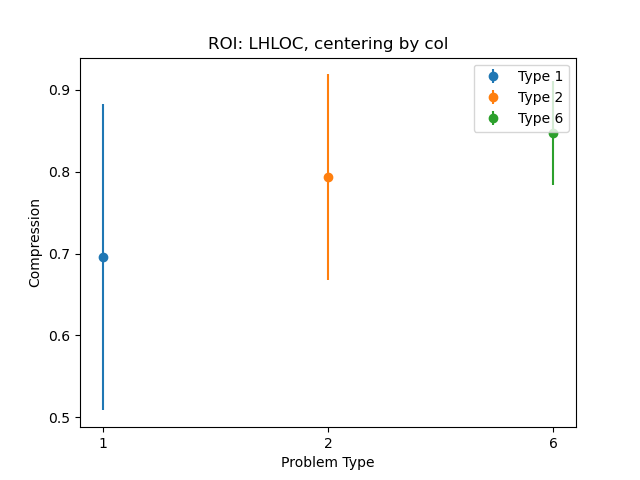
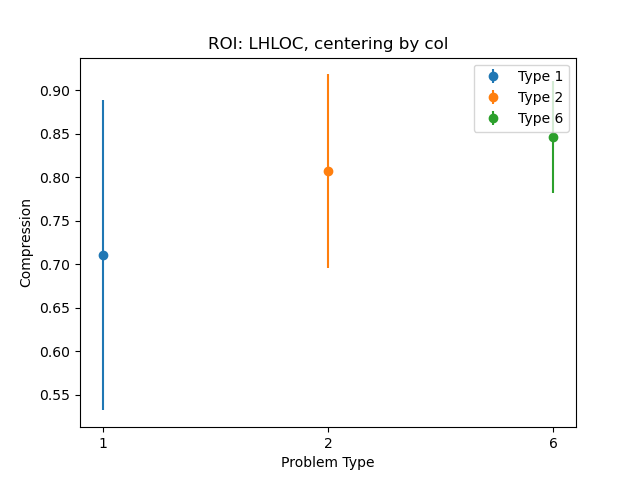
rerun by exc sub09; confirm LOC results

diff --git a/pca_3runs.py b/pca_3runs.py
@@ -12,11 +12,15 @@ from roi_rsa import merge_n_smooth_mask, transform_mask_MNI_to_T1, applyMask
 
 """Reproducing key results from Ahlheim et al., 2018
     - LOC shows task-specific functional dimensionality
-We do not see expected results using Mack et al., 2020 routine.
-One difference in implementation is that Ahlheim 2018 averaged 
-the last 3 runs and then did cv-PCA.
-Here, (before doing cv-PCA), we make minimum changes to Mack 2020
-implementation to simply perform PCA on the average over last 3 runs.
+    
+Some key differences to the original implementation:
+1. There is no cv-PCA at the moment. Instead, we average 
+    the last 3 runs matrices and selecting dimensions based 
+    on 90% variance explained.
+2. Ahlheim 2018 uses GLM from Mack 2016 (run-level), but here 
+    our run-level GLM does not include impulse.
+3. Ahlheim 2018 does PCA centering by row (voxel) but Mack 2020
+    does PCA centering by column. Here we try both.
 """
 
 def neural_compression(k, n):
@@ -210,23 +214,25 @@ def execute(roi, subs, tasks, num_processes, centering_by):
 
 if __name__ == '__main__':    
     root_path = '/home/ken/projects/brain_data'
-    glm_path = 'glm'
-    roi = 'vmPFC_sph10'
+    glm_path = 'glm_run-estimate'
+    roi = 'RHLOC'
     num_subs = 23
     num_types = 3
     dataType = 'beta'
     num_conditions = 16
-    subs = [f'{i:02d}' for i in range(2, num_subs+2)]
+    subs = [f'{i:02d}' for i in range(2, num_subs+2) if i!=9]
+    num_subs = len(subs)
     conditions = [f'{i:04d}' for i in range(1, num_conditions+1)]
     tasks = [1, 2, 3]
     runs = [2, 3, 4]  # will average over.
     num_runs = len(runs)
     smooth_beta = 2
     num_processes = 70
-    centering_by = 'col'
+    centering_by = 'row'
     if dataType == 'beta':
         # ignore `*_fb` conditions
         conditions = [f'{i:04d}' for i in range(1, num_conditions, 2)]
+        num_conditions = len(conditions)
     
     execute(
         roi=roi, 
